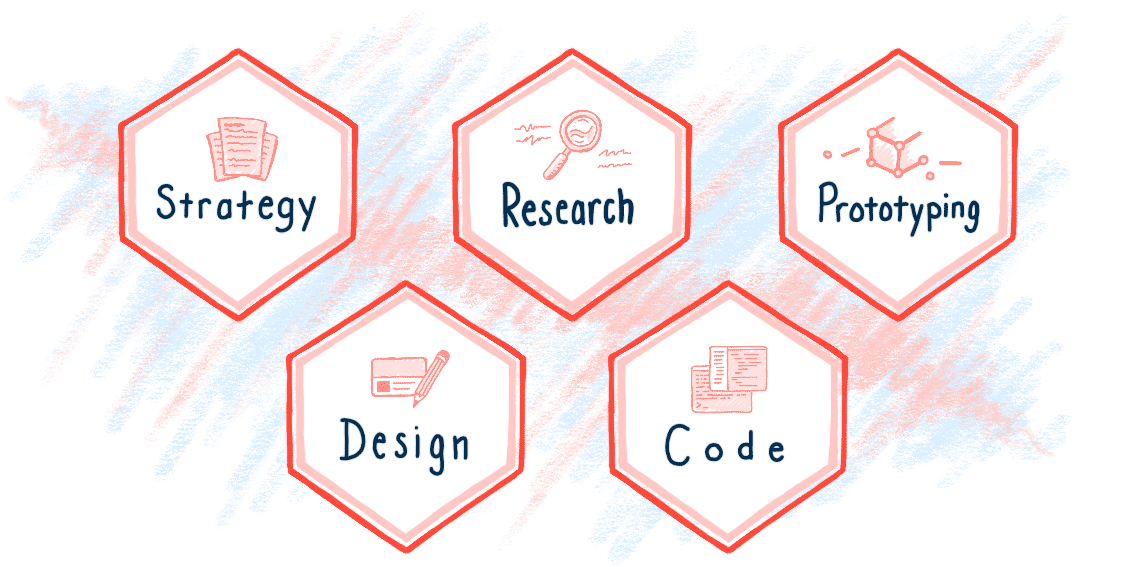
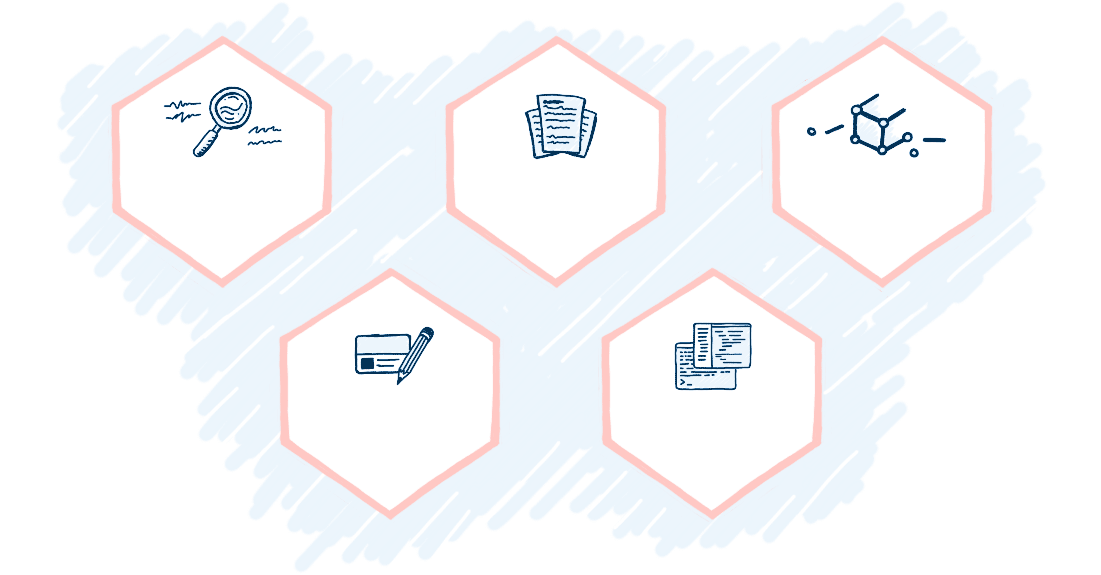
update what I do section

diff --git a/_includes/home/intro.html b/_includes/home/intro.html
@@ -8,10 +8,11 @@
         </h1>
 
         <nav class="site-nav text-rounded">
-          <a class="inline-block mr2" href="#intro">Intro</a>
           <a class="inline-block mr2" href="#work">Work</a>
           <a class="inline-block mr2" href="#projects">Projects</a>
           <a class="inline-block mr2" href="/about/">About</a>
+          <a class="inline-block mr2" href="/resume.pdf">Resume</a>
+          <a class="inline-block mr2" href="/speaking/">Speaking</a>
           <a class="inline-block" href="/writing/">Writing</a>
         </nav>
       </div>
@@ -52,7 +53,23 @@
 
 <section class="max-width-4 mx-auto clearfix section-intro bp4 mb4">
   <div class="col col-8">
-    <img alt="Reasearch, Strategy, Prototyping, Design, Code" src="/img/what-i-do.png" class="img-full-width what-i-do-illustration" />
+    <ul class="wid-labels relative m0 p0">
+      <li class="wid-item inline-block center absolute first">
+        Strategy
+      </li>
+      <li class="wid-item inline-block center absolute second">
+        Research
+      </li>
+      <li class="wid-item inline-block center absolute third">
+        Prototyping
+      </li>
+      <li class="wid-item inline-block center absolute fourth">
+        Design
+      </li>
+      <li class="wid-item inline-block center absolute fifth">
+        Code
+      </li>
+    </ul>
   </div>
   <div class="col col-4">
     <h2 class="headline mt4 pt2">

diff --git a/_sass/includes/_home.scss b/_sass/includes/_home.scss
@@ -8,16 +8,13 @@ body.page-home {
 // intro
 .section-intro {
   .intro-copy {
+    width: 512px;
+
     .headline {
       font-size: 48px;
       line-height: 56px;
     }
   }
-}
-
-.what-i-do-illustration {
-  position: relative;
-  left: -66px;
 }
 
 .pdc-title-graphic {
@@ -28,7 +25,7 @@ body.page-home {
   background-image: url(/img/how-i-work.png);
   background-size: 100%;
   background-repeat: no-repeat;
-  height: 224px
+  height: 224px;
 }
 
 // woof...but yeah quick and dirty solution
@@ -42,4 +39,25 @@ body.page-home {
   &.fifth {left: 887px;}
 
   p { line-height: 20px; }
+}
+
+.wid-labels {
+  background-image: url(/img/what-i-do.png);
+  background-size: 100%;
+  background-repeat: no-repeat;
+  height: 348px;
+  left: -70px;
+}
+
+.wid-item {
+  &.first,
+  &.second,
+  &.third { top: 105px; }
+  &.fourth,
+  &.fifth { top: 245px; }
+  &.first { left: 100px; }
+  &.second { left: 300px; }
+  &.third { left: 488px; }
+  &.fourth { left: 207px; }
+  &.fifth { left: 410px; }
 }
